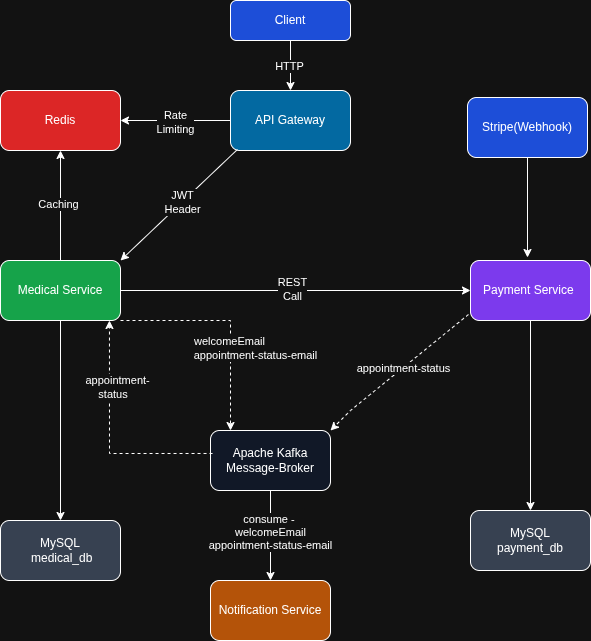
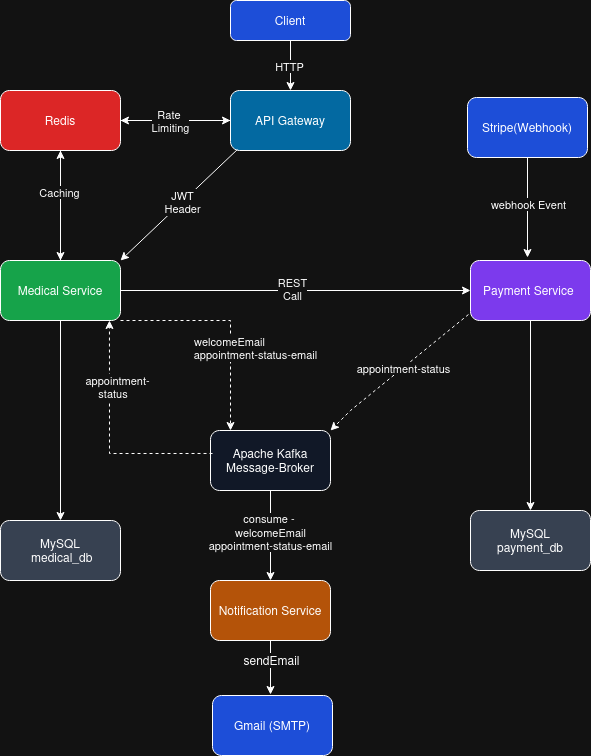
docs: add live URLs, architecture diagram, screenshots; remove internal service links

diff --git a/README.md b/README.md
@@ -1,32 +1,37 @@
 # Distributed Medical Platform
 
+A backend system built with Java and Spring Boot, designed as a set of loosely coupled microservices. The platform handles user authentication, medical data search, appointment booking, payment processing, and email notifications.
+
+---
+
 ## Live Demo
 
 | Service                 | URL                                             |
 | ----------------------- | ----------------------------------------------- |
-| Medical Service Swagger | http://34.57.234.163:7070/swagger-ui/index.html |
-| Payment Service Swagger | http://34.57.234.163:8082/swagger-ui/index.html |
 | API Gateway             | http://34.57.234.163:8080                       |
+| Medical Service Swagger | http://34.57.234.163:7070/swagger-ui/index.html |
 
-> Deployed on GCP (e2-standard-2, Ubuntu) using Docker Compose.
+> Deployed on GCP using Docker Compose. All client requests go through the API Gateway on port 8080.
+
+---
+
+## Architecture
+
+<p align="center">
+  <img src="docs/architecture.png" alt="Architecture" width="800"/>
+</p>
 
 ---
 
 ## Screenshots
 
-### Swagger UI — Medical Service
+### Medical Service — Swagger UI
 
 <p align="center">
   <img src="docs/screenshots/swagger-medical.png" alt="Medical Service Swagger UI" width="800"/>
 </p>
 
-### Swagger UI — Payment Service
-
-<p align="center">
-  <img src="docs/screenshots/swagger-payment.png" alt="Payment Service Swagger UI" width="800"/>
-</p>
-
-### Email Notifications (via Kafka → Notification Service)
+### Email Notifications (via Kafka → Notification Service → Gmail SMTP)
 
 <p align="center">
   <img src="docs/screenshots/email-welcome.png" alt="Welcome Email" width="700"/>
@@ -36,14 +41,6 @@
 </p>
 <p align="center">
   <img src="docs/screenshots/email-appointment-cancelled.png" alt="Appointment Cancelled Email" width="700"/>
-</p>
-
----
-
-## Architecture
-
-<p align="center">
-  <img src="docs/architecture.png" alt="Architecture" width="800"/>
 </p>
 
 ---
@@ -66,14 +63,14 @@
 - Publishes Kafka events on user registration and appointment status changes
 - Communicates with Payment Service via REST
 
-### Payment Service (Port 8082)
+### Payment Service (Port 8082 — Internal)
 
 - Stripe Checkout session creation with idempotency key (prevents duplicate charges on retry)
 - Webhook handler for `checkout.session.completed` and `payment_intent.payment_failed` events
 - Gateway pattern (`PaymentGateway` interface + `StripePGAdapter`) — easily swap payment providers
 - Publishes payment status back to Medical Service via Kafka
 
-### Notification Service (Port 8083)
+### Notification Service (Port 8083 — Internal)
 
 - Kafka consumers for welcome emails and appointment confirmation/cancellation
 - HTML email templates for professional notifications
@@ -156,7 +153,6 @@ All 8 containers start automatically in the correct order with health checks.
 | ----------------------- | ------------------------------------------- |
 | API Gateway             | http://localhost:8080                       |
 | Medical Service Swagger | http://localhost:7070/swagger-ui/index.html |
-| Payment Service Swagger | http://localhost:8082/swagger-ui/index.html |
 
 ---
 
@@ -178,8 +174,6 @@ Copy `.env.example` to `.env` and fill in your values:
 
 ## Docker Hub Images
 
-All service images are published on Docker Hub:
-
 | Image                                          | Link                                                                         |
 | ---------------------------------------------- | ---------------------------------------------------------------------------- |
 | `bharathvepanjeri/medical-service:latest`      | [Docker Hub](https://hub.docker.com/r/bharathvepanjeri/medical-service)      |
@@ -191,19 +185,15 @@ All service images are published on Docker Hub:
 
 ## API Overview
 
-| Method | Endpoint                           | Auth     | Description                         |
-| ------ | ---------------------------------- | -------- | ----------------------------------- |
-| POST   | `/api/v1/auth/register`            | Public   | Register new user                   |
-| POST   | `/api/v1/auth/login`               | Public   | Login, returns JWT                  |
-| GET    | `/api/v1/medicines/search?name=`   | JWT      | Search medicines + safety profiles  |
-| GET    | `/api/v1/diseases/search?query=`   | JWT      | Search diseases                     |
-| GET    | `/api/v1/symptoms/search?name=`    | JWT      | Search symptoms                     |
-| POST   | `/api/v1/appointments/book`        | PATIENT  | Book appointment + initiate payment |
-| PUT    | `/api/v1/admin/users/{id}/promote` | ADMIN    | Promote user to DOCTOR/PHARMACIST   |
-| POST   | `/payments/initiate`               | Internal | Create Stripe checkout session      |
-| POST   | `/api/webhook/stripe`              | Stripe   | Handle payment webhook events       |
-
-Full interactive documentation available at the **Live Demo** links above.
+| Method | Endpoint                           | Auth    | Description                         |
+| ------ | ---------------------------------- | ------- | ----------------------------------- |
+| POST   | `/api/v1/auth/register`            | Public  | Register new user                   |
+| POST   | `/api/v1/auth/login`               | Public  | Login, returns JWT                  |
+| GET    | `/api/v1/medicines/search?name=`   | JWT     | Search medicines + safety profiles  |
+| GET    | `/api/v1/diseases/search?query=`   | JWT     | Search diseases                     |
+| GET    | `/api/v1/symptoms/search?name=`    | JWT     | Search symptoms                     |
+| POST   | `/api/v1/appointments/book`        | PATIENT | Book appointment + initiate payment |
+| PUT    | `/api/v1/admin/users/{id}/promote` | ADMIN   | Promote user to DOCTOR/PHARMACIST   |
 
 ---
 
@@ -219,7 +209,8 @@ distributed-medical-platform/
 │   └── mysql/
 │       └── 00_init.sh        # Creates medical_db and payment_db
 ├── docs/
-│   └── architecture.png
+│   ├── architecture.png
+│   └── screenshots/
 ├── docker-compose.yml
 └── .env.example
 ```
